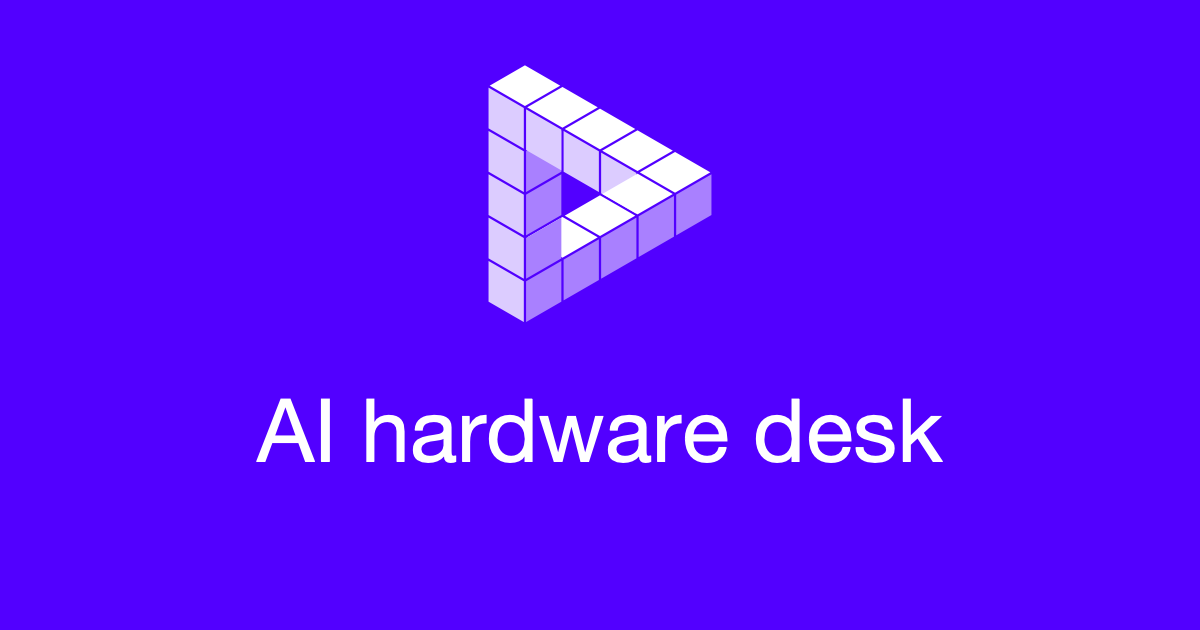
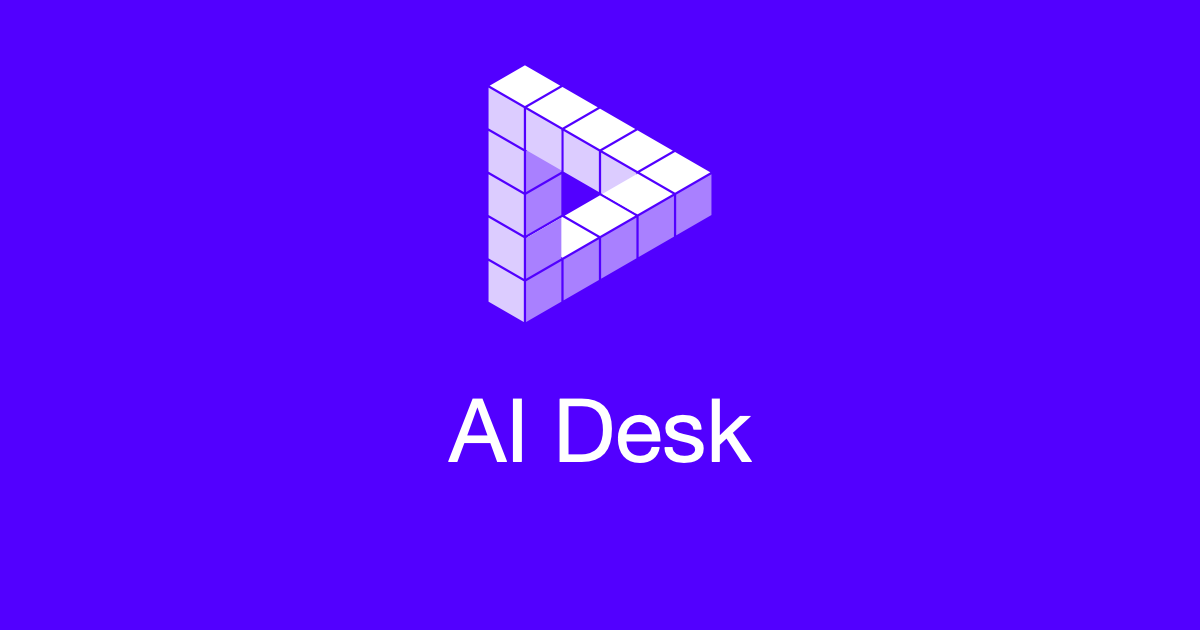
feat(brand): the name is AI Desk
The desk is called AI Desk everywhere a name appears: the page titles and
og:site_name, the JSON-LD, the RSS channel titles, the social card and the
mark's labels, the README title and the LICENSE holder. The title is the
name alone and the description says what the desk covers. Prose that says
what the desk is ("an AI-hardware desk") stays as it is, the curator's
prompt included, since rewording a prompt can change what the model
decides.

Claude-Session: https://claude.ai/code/session_01CtmWmMNBpZxskbiovw2VDu

Changed region(s): [[0.2158, 0.6333, 0.8017, 0.754]]

diff --git a/src/site.ts b/src/site.ts
@@ -5,9 +5,9 @@ export const SITE_ORIGIN = 'https://ai.um1ng.me';
 
 // Brand-facing copy. Single source of truth: the layout <title>/description
 // defaults and the RSS channel description import from here, so a rebrand
-// or positioning change edits one file, not three. The desk has no brand name
-// of its own any more, so its name is what it is.
-export const SITE_NAME = 'AI hardware desk';
+// or positioning change edits one file, not three. The title is the name
+// alone; the description says what the desk covers.
+export const SITE_NAME = 'AI Desk';
 export const SITE_TITLE = SITE_NAME;
 /** What every fetch the desk makes calls itself: ingest, and every probe in
  *  scripts/, which must be answered the way ingest is. The product token is the

diff --git a/AGENTS.md b/AGENTS.md
@@ -2,7 +2,7 @@
 
 ## Project Overview
 
-This repo is an AI-hardware desk. A Cloudflare cron pulls a registry of hardware and AI-industry RSS feeds every 15 minutes into D1, then a model *curates* the new rows — category, tags, summary, blurb, article type, quality score, and an on-beat gate — and an Astro SSR app renders the corpus as a full-bleed masonry board with a category index.
+This repo is **AI Desk**, an AI-hardware desk. A Cloudflare cron pulls a registry of hardware and AI-industry RSS feeds every 15 minutes into D1, then a model *curates* the new rows — category, tags, summary, blurb, article type, quality score, and an on-beat gate — and an Astro SSR app renders the corpus as a full-bleed masonry board with a category index.
 
 2026 pivots: football → PC hardware → full tech → a Poche-RSS curated explore feed (every external LLM dependency removed) → **this** desk, which brings the model back deliberately, as the classifier rather than as a thin summarizer. The Poche source left the registry in the same change; its corpus stays published as the archive.
 

diff --git a/scripts/README.md b/scripts/README.md
@@ -74,7 +74,7 @@ that do not, and are served 1:1. That residue is issue #158.
   stable; production cards load third-party images measured in megabytes. LCP in
   production is therefore governed by image delivery, not by anything in the
   table above. The numbers here were taken with the old 74,993-byte card; the
-  rebrand replaced it with a 46,812-byte one, so image bytes from a run today
+  rebrand replaced it with a 41,685-byte one, so image bytes from a run today
   are not comparable with them.
 - **Real devices and networks.** The throttle profiles are approximations, and
   local loopback removes the TLS and RTT costs a real visitor pays.

diff --git a/README.md b/README.md
@@ -1,4 +1,4 @@
-# AI hardware desk
+# AI Desk
 
 > AI-hardware desk on Cloudflare Workers. A cron pulls a registry of hardware and AI-industry RSS feeds into D1, a model curates every new story (category, tags, summary, blurb, quality score, on-beat gate), and Astro renders the result as a fast masonry board with category hubs and RSS feeds.
 
